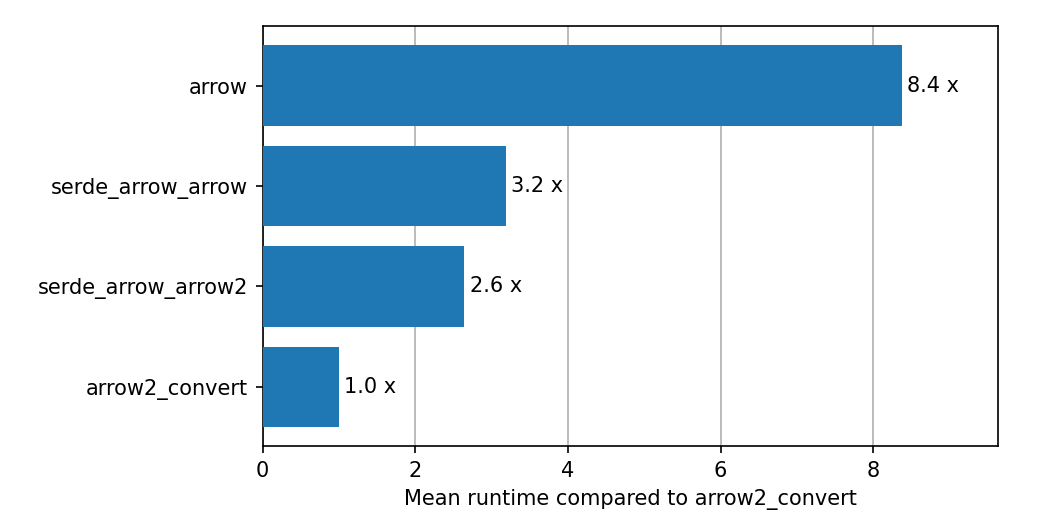
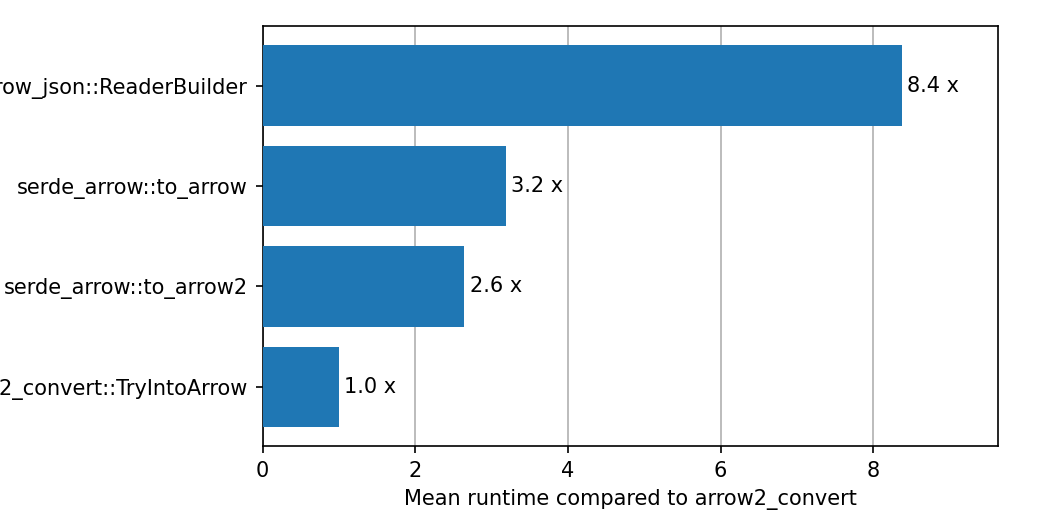
Include impl names in benchmark

diff --git a/x.py b/x.py
@@ -84,6 +84,13 @@ workflow_release_template = {
     },
 }
 
+benchmark_renames = {
+    "arrow": "arrow_json::ReaderBuilder",
+    "serde_arrow_arrow": "serde_arrow::to_arrow",
+    "serde_arrow_arrow2": "serde_arrow::to_arrow2",
+    "arrow2_convert": "arrow2_convert::TryIntoArrow",
+}
+
 
 @cmd(help="Run all common development tasks before a commit")
 @arg("--backtrace", action="store_true", default=False)
@@ -305,7 +312,7 @@ def load_times():
         for iterations, time in zip(data["iters"], data["times"]):
             results.append(
                 {
-                    "name": name,
+                    "name": benchmark_renames.get(name, name),
                     "group": group,
                     "iterations": iterations,
                     "time": time,
@@ -365,7 +372,10 @@ def plot_times(mean_times):
                 (
                     pl.col("time")
                     / pl.col("time")
-                    .where(pl.col("impl") == "arrow2_convert")
+                    .where(
+                        pl.col("impl")
+                        == benchmark_renames.get("arrow2_convert", "arrow2_convert")
+                    )
                     .mean()
                     .over("group")
                 ),

diff --git a/Readme.md b/Readme.md
@@ -107,39 +107,39 @@ The detailed runtimes of the [benchmarks](./serde_arrow/benches/groups/) are lis
 <!-- start:benchmarks -->
 ### complex_common_serialize(100000)
 
-| label              | time [ms] | arrow2_convert | serde_arrow_arr | serde_arrow_arr | arrow |
-|--------------------|-----------|----------------|-----------------|-----------------|-------|
-| arrow2_convert     |     50.41 |           1.00 |            0.33 |            0.31 |  0.13 |
-| serde_arrow_arrow2 |    150.91 |           2.99 |            1.00 |            0.94 |  0.40 |
-| serde_arrow_arrow  |    161.25 |           3.20 |            1.07 |            1.00 |  0.43 |
-| arrow              |    375.00 |           7.44 |            2.48 |            2.33 |  1.00 |
+| label                        | time [ms] | arrow2_convert: | serde_arrow::to | serde_arrow::to | arrow_json::Rea |
+|------------------------------|-----------|-----------------|-----------------|-----------------|-----------------|
+| arrow2_convert::TryIntoArrow |     50.41 |            1.00 |            0.33 |            0.31 |            0.13 |
+| serde_arrow::to_arrow2       |    150.91 |            2.99 |            1.00 |            0.94 |            0.40 |
+| serde_arrow::to_arrow        |    161.25 |            3.20 |            1.07 |            1.00 |            0.43 |
+| arrow_json::ReaderBuilder    |    375.00 |            7.44 |            2.48 |            2.33 |            1.00 |
 
 ### complex_common_serialize(1000000)
 
-| label              | time [ms] | arrow2_convert | serde_arrow_arr | serde_arrow_arr | arrow |
-|--------------------|-----------|----------------|-----------------|-----------------|-------|
-| arrow2_convert     |    470.21 |           1.00 |            0.32 |            0.30 |  0.13 |
-| serde_arrow_arrow2 |   1448.66 |           3.08 |            1.00 |            0.92 |  0.40 |
-| serde_arrow_arrow  |   1574.82 |           3.35 |            1.09 |            1.00 |  0.43 |
-| arrow              |   3628.26 |           7.72 |            2.50 |            2.30 |  1.00 |
+| label                        | time [ms] | arrow2_convert: | serde_arrow::to | serde_arrow::to | arrow_json::Rea |
+|------------------------------|-----------|-----------------|-----------------|-----------------|-----------------|
+| arrow2_convert::TryIntoArrow |    470.21 |            1.00 |            0.32 |            0.30 |            0.13 |
+| serde_arrow::to_arrow2       |   1448.66 |            3.08 |            1.00 |            0.92 |            0.40 |
+| serde_arrow::to_arrow        |   1574.82 |            3.35 |            1.09 |            1.00 |            0.43 |
+| arrow_json::ReaderBuilder    |   3628.26 |            7.72 |            2.50 |            2.30 |            1.00 |
 
 ### primitives_serialize(100000)
 
-| label              | time [ms] | arrow2_convert | serde_arrow_arr | serde_arrow_arr | arrow |
-|--------------------|-----------|----------------|-----------------|-----------------|-------|
-| arrow2_convert     |     14.11 |           1.00 |            0.46 |            0.32 |  0.11 |
-| serde_arrow_arrow2 |     30.85 |           2.19 |            1.00 |            0.70 |  0.25 |
-| serde_arrow_arrow  |     44.02 |           3.12 |            1.43 |            1.00 |  0.35 |
-| arrow              |    125.16 |           8.87 |            4.06 |            2.84 |  1.00 |
+| label                        | time [ms] | arrow2_convert: | serde_arrow::to | serde_arrow::to | arrow_json::Rea |
+|------------------------------|-----------|-----------------|-----------------|-----------------|-----------------|
+| arrow2_convert::TryIntoArrow |     14.11 |            1.00 |            0.46 |            0.32 |            0.11 |
+| serde_arrow::to_arrow2       |     30.85 |            2.19 |            1.00 |            0.70 |            0.25 |
+| serde_arrow::to_arrow        |     44.02 |            3.12 |            1.43 |            1.00 |            0.35 |
+| arrow_json::ReaderBuilder    |    125.16 |            8.87 |            4.06 |            2.84 |            1.00 |
 
 ### primitives_serialize(1000000)
 
-| label              | time [ms] | arrow2_convert | serde_arrow_arr | serde_arrow_arr | arrow |
-|--------------------|-----------|----------------|-----------------|-----------------|-------|
-| arrow2_convert     |    144.14 |           1.00 |            0.43 |            0.33 |  0.11 |
-| serde_arrow_arrow2 |    333.09 |           2.31 |            1.00 |            0.75 |  0.24 |
-| serde_arrow_arrow  |    441.65 |           3.06 |            1.33 |            1.00 |  0.32 |
-| arrow              |   1362.27 |           9.45 |            4.09 |            3.08 |  1.00 |
+| label                        | time [ms] | arrow2_convert: | serde_arrow::to | serde_arrow::to | arrow_json::Rea |
+|------------------------------|-----------|-----------------|-----------------|-----------------|-----------------|
+| arrow2_convert::TryIntoArrow |    144.14 |            1.00 |            0.43 |            0.33 |            0.11 |
+| serde_arrow::to_arrow2       |    333.09 |            2.31 |            1.00 |            0.75 |            0.24 |
+| serde_arrow::to_arrow        |    441.65 |            3.06 |            1.33 |            1.00 |            0.32 |
+| arrow_json::ReaderBuilder    |   1362.27 |            9.45 |            4.09 |            3.08 |            1.00 |
 
 <!-- end:benchmarks -->
 
